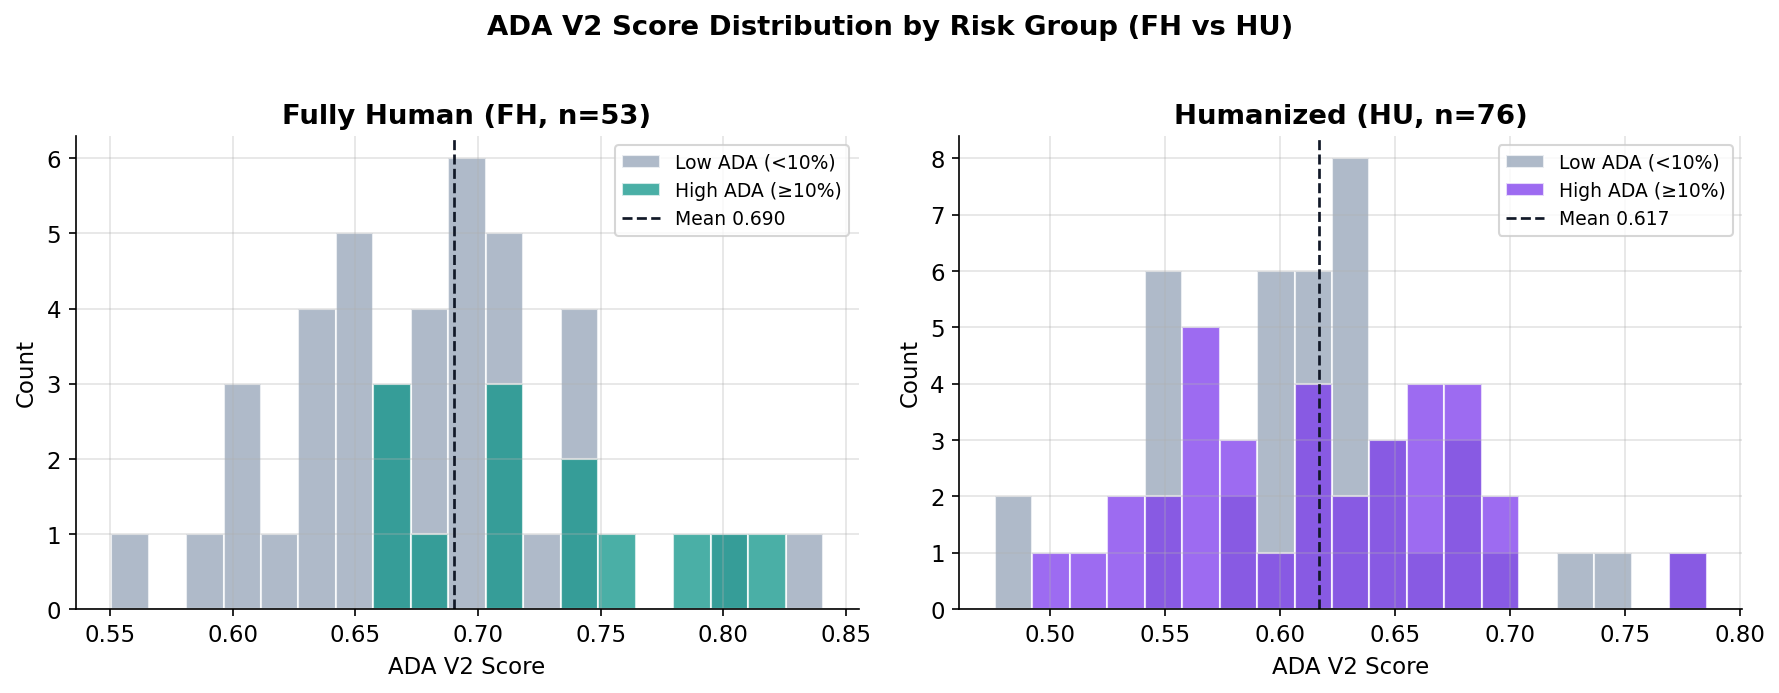
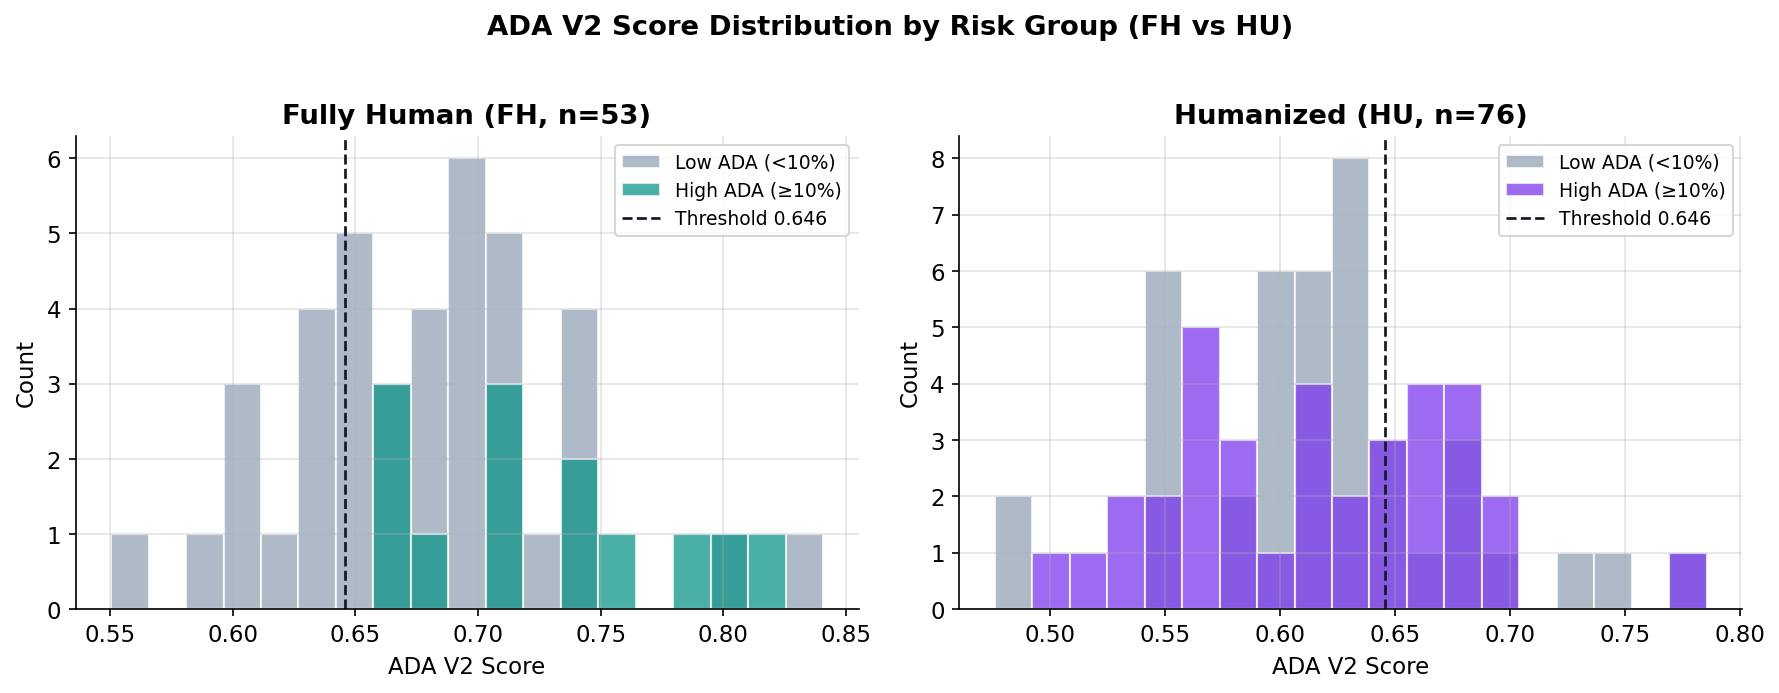
fix: update 35 HLA-DRB1 alleles, unify figure threshold to 0.646, add EpiVax comparability note
Made-with: Cursor

Changed region(s): [[0.8657, 0.303, 0.9584, 0.3333], [0.371, 0.303, 0.4637, 0.3333]]

diff --git a/immunogenicity_study.html b/immunogenicity_study.html
@@ -353,8 +353,8 @@
     </div>
     <div class="feature-card">
       <div class="fc-label">Prediction Coverage</div>
-      <h3>27 HLA-DR Alleles</h3>
-      <p>MHC-II binding prediction via IEDB API, covering the major global HLA-DR alleles to capture population-wide risk.</p>
+      <h3>35 HLA-DRB1 Alleles</h3>
+      <p>MHC-II binding prediction via IEDB API, covering 35 HLA-DRB1 alleles to capture broader population-wide risk.</p>
     </div>
     <div class="feature-card">
       <div class="fc-label">Stratified Analysis</div>
@@ -576,7 +576,8 @@
     </div>
   </div>
 
-  <h3 style="margin-top:32px;">ADA V2 Dual-Track Benchmark — 138 Clinical Records</h3>
+  <h3 style="margin-top:32px;">ADA V2 Dual-Track Benchmark — 129 Comparable Clinical Records</h3>
+  <p style="font-size:13px;color:#4b5563;line-height:1.7;margin:0 0 14px;">Two readouts are reported separately here. The <strong>table below</strong> summarizes track-level correlation metrics using the benchmark endpoint definition, whereas <strong>Figure 6c</strong> fixes the cutoff at <strong>0.646 as a HIGH-only threshold</strong> to show strict triage behavior. These are related but not identical statistics.</p>
   <div class="table-wrap">
     <table>
       <tr><th>Track</th><th>n</th><th>ρ (Spearman)</th><th>p-value</th><th>AUC-ROC</th><th>Balanced Acc.</th><th>Sensitivity</th><th>Specificity</th></tr>
@@ -585,7 +586,19 @@
       <tr><td>HU Humanized</td><td>76</td><td>+0.058</td><td>0.618</td><td>0.505</td><td>0.524</td><td>0.226</td><td>0.822</td></tr>
     </table>
   </div>
-  <p style="font-size:13px;color:#9ca3af;margin-top:4px;">* Clinical ADA &gt;10% = positive; HIGH risk grade = predicted positive. FH track reached statistical significance. HU signal suppressed by clinical immunosuppressants (see HU-specific analysis).</p>
+  <p style="font-size:13px;color:#9ca3af;margin-top:4px;">* Clinical ADA &gt;10% = positive. The sensitivity/specificity values in this table come from the benchmark endpoint definition and should not be read as identical to the HIGH-only 0.646 confusion-matrix detection rates shown in Figure 6c.</p>
+
+  <div class="card" style="margin-top:20px;background:#f8fafc;border:1px solid #e2e8f0;">
+    <strong>How to read the 0.646 threshold in Figure 6c</strong><br>
+    <p style="margin:10px 0 0;line-height:1.7;"><strong>FH:</strong> at a strict HIGH threshold of 0.646, detection of clinical <strong>ADA &gt;10%</strong> is <strong>100% (13/13)</strong>; the high-ADA proportion in the low-score group is <strong>0% (0/11)</strong>; and the high-ADA proportion within the high-score group is <strong>31.0% (13/42)</strong>. This makes the FH branch useful as a conservative rule-out screen.</p>
+    <p style="margin:10px 0 0;line-height:1.7;"><strong>HU:</strong> under the same threshold, detection of clinical <strong>ADA &gt;10%</strong> is <strong>37.1% (13/35)</strong>; the high-ADA proportion in the low-score group is <strong>41.5% (22/53)</strong>; and the high-ADA proportion within the high-score group is <strong>56.5% (13/23)</strong>. HU therefore still shows enrichment, but with stronger clinical-noise suppression.</p>
+  </div>
+
+  <div class="card" style="margin-top:20px;background:#fff7ed;border:1px solid #fed7aa;">
+    <strong>Comparable-to-EpiVax statement</strong><br>
+    <p style="margin:10px 0 0;line-height:1.7;">This page does <strong>not</strong> present a public head-to-head run against EpiVax on the exact same antibody panel, assay stratification, and ADA endpoint definition, so we do not make a numeric “better than EpiVax” claim here.</p>
+    <p style="margin:10px 0 0;line-height:1.7;">What we can state more rigorously is that, under <strong>comparable conditions</strong> such as fully human antibodies, high-sensitivity ADA assays, and sequence/epitope-centered risk ranking, the FH branch of ADA V2 operates in a similar comparison frame to EpiVax-like sequence models. The difference is that ADA V2 additionally integrates <strong>SASA exposure</strong>, <strong>VH-VL interface stability</strong>, and a <strong>CMC veto</strong>, so it should be described as an expanded model rather than a strict apples-to-apples replica.</p>
+  </div>
 
   <h3>Validated LOO Models (Leave-One-Out Cross-Validation)</h3>
   <div class="table-wrap">
@@ -618,7 +631,7 @@
   <ul class="method-list">
     <li>
       <span class="method-dot"></span>
-      <p><strong>IEDB MHC-II Deep Scan</strong> — Covers 27 HLA-DR alleles; <strong>HU-specific</strong> additionally scans Vernier Zone (~10 positions per VH/VL) and CDR-FR junctions (5 residues at each CDR end) for degradation peptides.</p>
+      <p><strong>IEDB MHC-II Deep Scan</strong> — Covers <strong>35 HLA-DRB1 alleles</strong>; <strong>HU-specific</strong> additionally scans Vernier Zone (~10 positions per VH/VL) and CDR-FR junctions (5 residues at each CDR end) for degradation peptides.</p>
     </li>
     <li>
       <span class="method-dot"></span>
@@ -638,7 +651,7 @@
     </li>
   </ul>
 
-  <p>All scores are benchmarked against 138 clinical records in the InSynBio ADA database, providing percentile ranking and reference comparisons (e.g., Herceptin®, Humira® benchmarks).</p>
+  <p>All scores are benchmarked against 138 clinical records in the InSynBio ADA database; the track-level benchmark shown on this page uses the 129 records with comparable endpoint completeness, providing percentile ranking and reference comparisons (e.g., Herceptin®, Humira® benchmarks).</p>
 
   <div class="card-note">
     <strong>April 2026 Data Validation</strong> — Latest high-sensitivity assay stratification analysis (n=122, ECL/Tiered) confirms: FH system's interface stability signal (ρ=+0.339, p=0.018) and MHC-II epitope signal (ρ=+0.425, p=0.034) remain statistically significant after removing assay bias, confirming ADA V2 dual-track robustness. 8/8 previously significant features maintain consistent direction across the full sample.

diff --git a/whitepaper_insynbio_en.html b/whitepaper_insynbio_en.html
@@ -732,7 +732,7 @@
       <div class="sc-hd"><div class="sc-ico sc-ico-r"><svg width="16" height="16" viewBox="0 0 24 24" fill="none" stroke="currentColor" stroke-width="2" stroke-linecap="round" stroke-linejoin="round"><path d="M14 7A3 3 0 0 0 8 7v8a3 3 0 0 0 6 0V7z"/><path d="M8 11h6"/><path d="M18 21H6"/><path d="M15 21v-4a4 4 0 0 0-4-4H8"/></svg></div><div><div class="sc-name">Immunogenicity and ADA Risk</div><div class="sc-en">Immunogenicity · ADA DB</div></div></div>
       <div class="sc-body">
         <ul class="sc-pts">
-          <li>T-cell epitope screening, 27 HLA-DR coverage</li>
+          <li>T-cell epitope screening, 35 HLA-DRB1 coverage</li>
           <li>Benchmarking against 138 <b>Rare ADA Database</b> records</li>
           <li>Immunogenicity hotspot localization + Mutation risk reduction</li>
         </ul>
@@ -879,7 +879,7 @@
     <div class="db-card c-g">
       <div class="db-n c-g">100+</div>
       <span class="db-label">IEDB Validated Vaccine Epitopes</span>
-      <div class="db-desc">27 HLA-DR coverage, MHC-I/II dual screening, supported by clinical tumor neoantigen cases</div>
+      <div class="db-desc">35 HLA-DRB1 coverage, MHC-I/II dual screening, supported by clinical tumor neoantigen cases</div>
     </div>
   </div>
 

diff --git a/InSynBio_Antibody_Developability_Assessment_Page.html b/InSynBio_Antibody_Developability_Assessment_Page.html
@@ -767,7 +767,7 @@
             <div class="lt-head">A3 &nbsp;Immunogenicity Assessment</div>
             <div class="lt-query">MHC-II T-cell epitope risk in framework and CDR regions?</div>
             <div class="lt-result">3 high-risk MHC-II clusters in VH-FR2 and VL-FR3 (murine-specific residues) · CDRs clean</div>
-            <div class="lt-decision">InSynBio immunogenicity pipeline (27 HLA-DR alleles) identifies 3 murine-specific FR residue clusters as high-risk T-cell epitopes. All risks reside in framework — <strong>CDR-H1/H2/H3 and CDR-L1/L2/L3 are immunogenically clean.</strong> Germline tolerance filter confirms IGHV3-23*01 + IGKV1-39*01 as lowest-risk framework pair for this CDR set.</div>
+            <div class="lt-decision">InSynBio immunogenicity pipeline (35 HLA-DRB1 alleles) identifies 3 murine-specific FR residue clusters as high-risk T-cell epitopes. All risks reside in framework — <strong>CDR-H1/H2/H3 and CDR-L1/L2/L3 are immunogenically clean.</strong> Germline tolerance filter confirms IGHV3-23*01 + IGKV1-39*01 as lowest-risk framework pair for this CDR set.</div>
           </div>
 
           <div class="lt-step">

diff --git a/pitch desk/InSynBio_Pitch_Deck.html b/pitch desk/InSynBio_Pitch_Deck.html
@@ -742,7 +742,7 @@ body.mode-light .slide li::before { color: #0d9488 !important; }
       <div class="card" style="text-align:center; padding:20px;">
         <div style="font-size:14px; color:#f9a8d4; font-weight:800; margin-bottom:10px; text-transform:uppercase;">Immunogenicity</div>
         <div style="font-size:20px; font-weight:700; color:#fff;">IEDB API</div>
-        <div style="font-size:16px; color:rgba(255,255,255,0.75); margin-top:4px;">27 HLA-DR Alleles</div>
+        <div style="font-size:16px; color:rgba(255,255,255,0.75); margin-top:4px;">35 HLA-DRB1 Alleles</div>
       </div>
 
       <!-- 6: Sequence Annotation -->

diff --git a/InSynBio_OurTech.html b/InSynBio_OurTech.html
@@ -447,7 +447,7 @@
       <div class="tool-card">
         <span class="tc-tag">Immunogenicity</span>
         <h3>IEDB API</h3>
-        <p>MHC-II binding prediction covering 27 HLA-DR alleles for T-cell epitope risk scoring based on IEDB.</p>
+        <p>MHC-II binding prediction covering 35 HLA-DRB1 alleles for T-cell epitope risk scoring based on IEDB.</p>
       </div>
       <div class="tool-card">
         <span class="tc-tag">Stability</span>

diff --git a/InSynBio_ADC_Design_Page.html b/InSynBio_ADC_Design_Page.html
@@ -860,3 +860,4 @@
 
 
 
+
